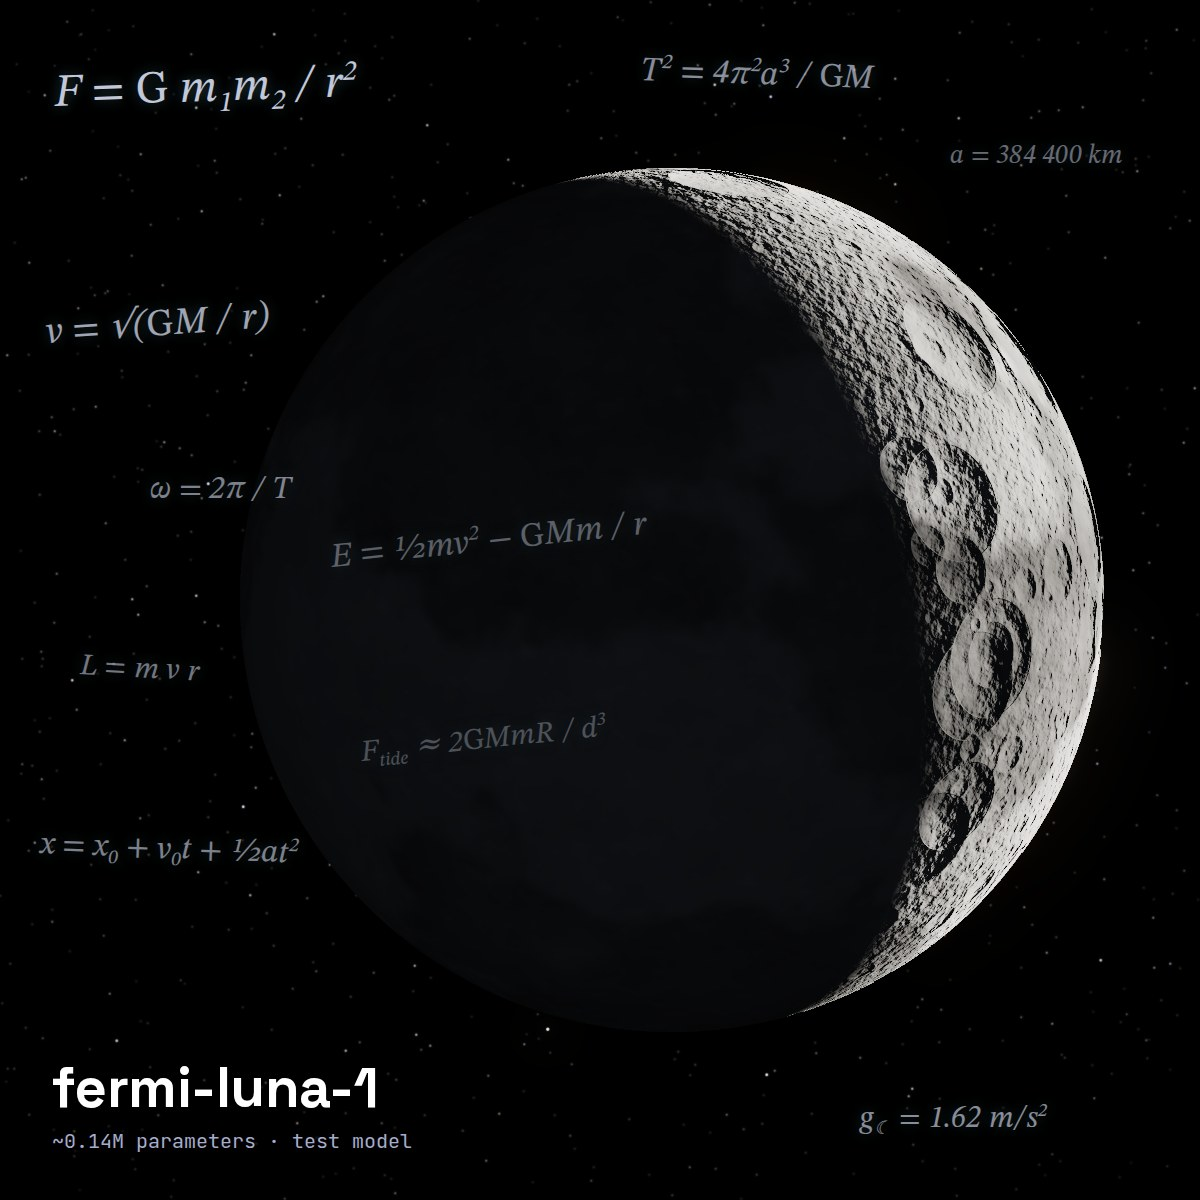
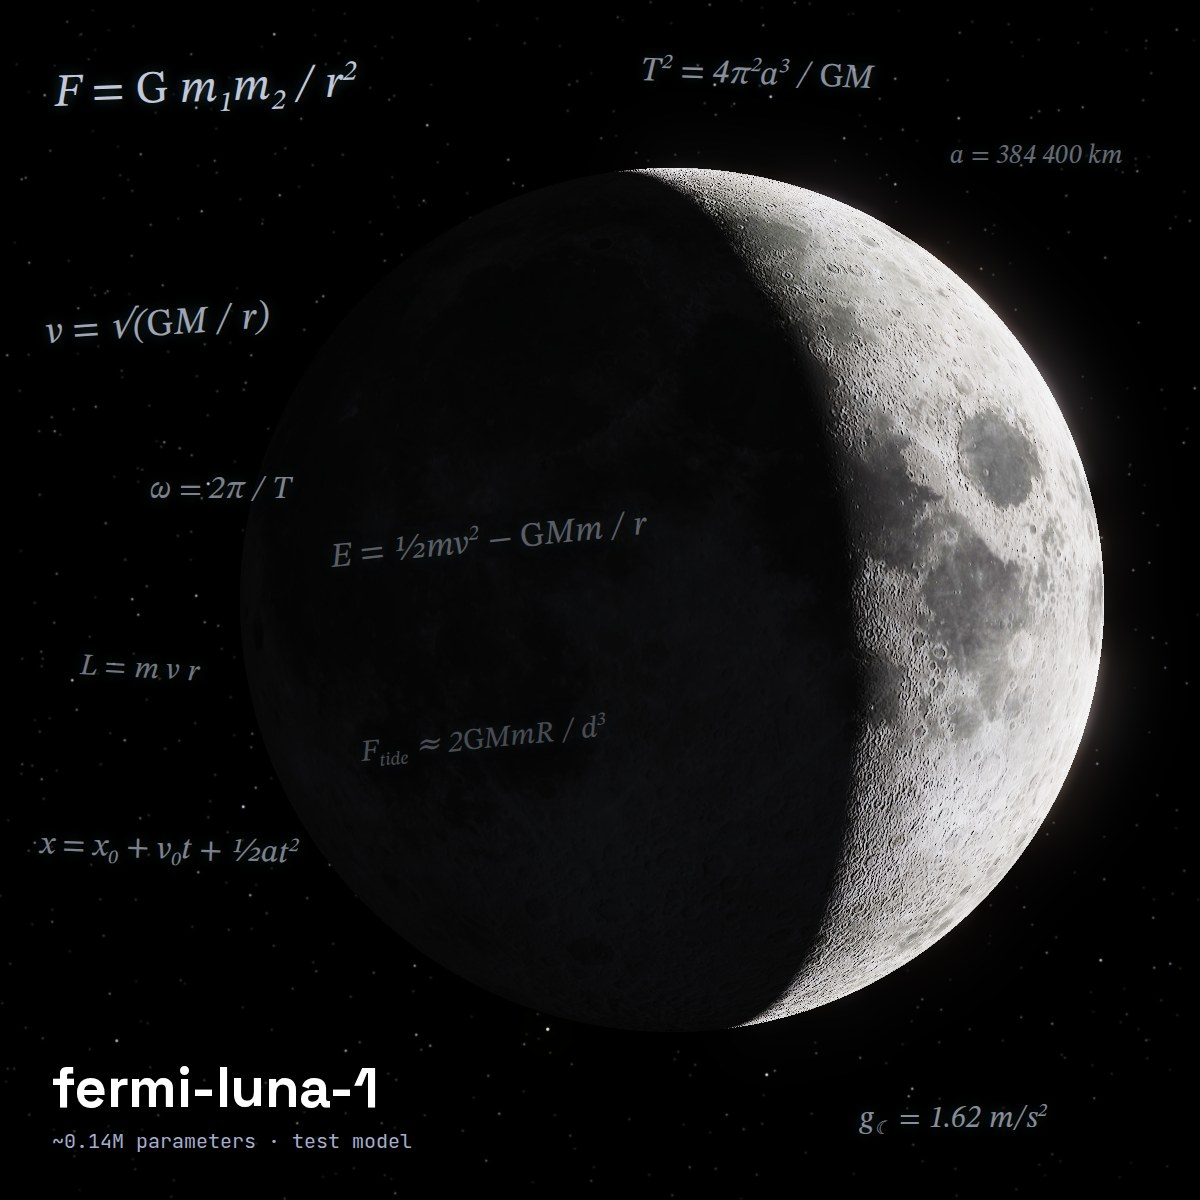
Render the Moon from real LRO data, and give the Earth real weather
The procedural craters looked fake. fermi-luna-1 now wraps a global lunar
map built from Lunar Reconnaissance Orbiter data (Solar System Scope,
CC BY 4.0) around the sphere, so the crescent shows the real Mare Crisium
and crater fields, with earthshine on the dark side. The Earth's clouds get
mid-latitude cyclones, wispy edges, and clear skies over the deserts.

Changed region(s): [[0.4933, 0.1233, 0.925, 0.8633]]

diff --git a/scripts/brand.py b/scripts/brand.py
@@ -4,16 +4,17 @@
     python scripts/brand.py luna banner     # some pieces: logo, banner, luna, tellus, solem, celeste
     python scripts/brand.py --reuse banner  # reuse body renders cached in build/brand
 
-The bodies are rendered with numpy, not drawn: the Moon is a cratered sphere
-lit with the Lommel-Seeliger law; the Earth wraps NASA's Blue Marble and NOAA
-relief around a sphere with procedural clouds, ocean glint, city lights, and
-an atmosphere; the Sun has limb darkening, granulation, sunspots, spicules,
+The bodies are rendered with numpy, not drawn: the Moon wraps a lunar map
+from LRO data around a sphere lit with the Lommel-Seeliger law, plus
+earthshine; the Earth wraps NASA's Blue Marble and NOAA relief around a
+sphere with procedural clouds and cyclones, ocean glint, city lights, and an
+atmosphere; the Sun has limb darkening, granulation, sunspots, spicules,
 and loop prominences; and the black hole is ray-traced through Schwarzschild
 geodesics with a Doppler-beamed accretion disk and relativistic jets.
 Headless Chromium then typesets the equations and labels on top.
 
 Needs numpy, Pillow, and Node with Playwright. The first run downloads Google
-Fonts and the Earth maps (basemap-data from PyPI) into build/brand.
+Fonts, the Earth maps (basemap-data from PyPI), and the Moon map into build/brand.
 """
 
 from __future__ import annotations
@@ -211,62 +212,71 @@ def starfield(h: int, w: int, count: int, seed: int) -> Array:
     return blur(img, 0.7 * w / 1200) * 3.5
 
 
+# A global lunar color map from Lunar Reconnaissance Orbiter data, by Solar
+# System Scope (CC BY 4.0), as hosted by the PyVista project.
+MOON_MAP = "https://raw.githubusercontent.com/pyvista/data/master/Data/solar_textures/moon.jpg"
[1 lines of base64/hex data omitted]
+
+
+def moon_map() -> Array:
+    """The lunar albedo map (equirectangular, linear RGB), downloaded once."""
+    import hashlib
+    import io
+
+    from PIL import Image
+
+    path = BUILD / "moon.jpg"
+    if not path.exists():
+        data = _fetch(MOON_MAP)
+        if hashlib.sha256(data).hexdigest() != MOON_MAP_SHA256:
+            raise SystemExit("moon map failed its checksum")
+        path.parent.mkdir(parents=True, exist_ok=True)
+        path.write_bytes(data)
+    image = Image.open(io.BytesIO(path.read_bytes())).convert("RGB")
+    return np.asarray(image, dtype=np.float64) ** 2.2 / 255**2.2
+
+
 def render_luna(n: int = ART) -> Array:
     ss = 2
     size = n * ss
     radius = 0.36 * size
     x, y, z, r = sphere(size, 0.56 * size, 0.5 * size, radius)
     inside = r < 1
-    normal = np.stack([x, y, z], axis=-1)
-    view = rotation(0.9, 0.25)
-    pin = normal[inside] @ view.T  # body coordinates of the visible pixels
+    nin = np.stack([x, y, z], axis=-1)[inside]
 
-    # Maria (dark basalt plains), highlands, and fine regolith texture.
-    maria = smoothstep(-0.1, 0.15, fbm(pin * 1.3, 6, seed=1))
-    albedo = 0.62 - 0.33 * maria + 0.1 * fbm(pin * 4, 5, seed=2) + 0.05 * fbm(pin * 22, 3, seed=3)
+    # The near side faces us (libration nudges it a little); north is up.
+    lat0, lon0 = np.radians(-4), np.radians(6)
+    center = np.array([np.cos(lat0) * np.sin(lon0), np.sin(lat0), np.cos(lat0) * np.cos(lon0)])
+    east = np.array([np.cos(lon0), 0.0, -np.sin(lon0)])
+    north = np.cross(center, east)
+    p = nin[:, :1] * east + nin[:, 1:2] * north + nin[:, 2:3] * center
+    lat = np.arcsin(np.clip(p[:, 1], -1, 1))
+    lon = np.arctan2(p[:, 0], p[:, 2])
+    albedo = sample(moon_map(), lat, lon)
 
-    # Craters: a power-law size distribution of bowls with raised rims.
-    rng = np.random.default_rng(7)
-    height = np.zeros(pin.shape[0])
-    for _ in range(1800):
-        c = normalize(rng.normal(size=3))
-        if (c @ view)[2] < -0.1:  # on the far side
-            continue
-        rad = min(0.006 * (1 - rng.random()) ** (-1 / 1.4), 0.14)
-        cosd = pin @ c
-        near = np.nonzero(cosd > np.cos(2.5 * rad))[0]
-        if near.size == 0:
-            continue
-        t = np.sqrt(np.clip(2 * (1 - cosd[near]), 0, None)) / rad
-        depth = 0.2 * rad
-        bowl = np.where(t < 1, depth * (t * t - 1), 0.0)
-        rim = 0.25 * depth * np.exp(-(((t - 1) / 0.22) ** 2))
-        ejecta = np.where(t > 1, 0.1 * depth * np.exp(-(t - 1) * 2.5), 0.0)
-        height[near] += bowl + rim + ejecta
-        if rng.random() < 0.1:  # young craters are brighter, with a halo
-            albedo[near] += 0.12 * np.exp(-((t / 1.8) ** 2))
-
-    height += 0.004 * fbm(pin * 40, 4, seed=4)
-    grid = np.zeros(z.shape)
-    grid[inside] = height
-    gy, gx = np.gradient(grid)
-    bump = 0.7 * radius
+    # Fine relief from the map's own shading, so the terminator isn't a clean edge.
+    lum = np.zeros(z.shape)
+    lum[inside] = albedo.mean(axis=1)
+    relief = lum - blur(lum[..., None], 3.0)[..., 0]
+    gy, gx = np.gradient(relief)
+    bump = 6.0
     lit_normal = normalize(np.stack([x - bump * gx, y + bump * gy, z], axis=-1))[inside]
 
-    # A crescent: the Sun is behind the Moon and off to the right.
-    light = normalize(np.array([0.9, 0.24, -0.62]))
+    # A waxing crescent: the Sun is behind the Moon and off to the right.
+    light = normalize(np.array([0.93, 0.12, -0.42]))
     mu0 = np.clip(lit_normal @ light, 0, None)
-    mu = np.clip(z[inside], 1e-3, None)
-    shade = 0.8 * 2 * mu0 / (mu0 + mu) + 0.2 * mu0
-    terminator = smoothstep(-0.03, 0.06, normal[inside] @ light)
-    lit = (albedo * shade * terminator)[:, None] * np.array([1.0, 0.96, 0.9]) * 0.95
-    earthshine = (0.012 * albedo * (0.4 + 0.6 * mu))[:, None] * np.array([0.6, 0.75, 1.0])
+    mu = np.clip(nin[:, 2], 1e-3, None)
+    lommel = 2 * mu0 / (mu0 + mu)  # the Moon's flat, limb-bright look
+    terminator = smoothstep(-0.02, 0.05, nin @ light)
+    lit = albedo * (lommel * terminator)[:, None] * 2.2
+    # Earthshine: the dark side lit faintly blue by the Earth, maria and all.
+    earthshine = albedo * (0.016 * (0.3 + 0.7 * mu))[:, None] * np.array([0.75, 0.85, 1.0])
 
     img = starfield(size, size, 900, seed=11) * (~inside)[..., None]
     img[inside] = lit + earthshine
     img = downsample(img, ss)
-    img = bloom(img, 0.8, 0.25, (6, 24))
-    return tonemap(img, 1.1)
+    img = bloom(img, 0.85, 0.2, (6, 24))
+    return tonemap(img, 1.0)
 
 
 # NASA's Blue Marble Next Generation and NOAA's ETOPO1 relief (both public
@@ -355,15 +365,28 @@ def render_tellus(n: int = ART) -> Array:
     grid = np.zeros(z.shape)
     grid[inside] = relief * land
     gy, gx = np.gradient(grid)
-    bump = 9.0
+    bump = 4.5
     lit_normal = normalize(np.stack([x - bump * gx, y + bump * gy, z], axis=-1))[inside]
 
-    # Clouds: fractal, lightly swirled, denser away from the subtropical deserts.
-    cwarp = np.stack([fbm(p * 2.5 + s, 4, seed=20 + s) for s in (0, 1, 2)], axis=-1)
-    cq = p + 0.25 * cwarp
-    cloud = fbm(cq * np.array([4.0, 6.0, 4.0]), 8, seed=23, gain=0.55)
-    belt = 0.12 * np.cos(lat * 6) ** 2 - 0.1 * np.exp(-(((np.abs(lat) - 0.42) / 0.12) ** 2))
-    cover = smoothstep(0.18, 0.6, cloud + belt) * 0.8
+    # Clouds: mid-latitude cyclones spiral the field (a twist that fades with
+    # distance from each storm's eye), wisps break up the edges, and the
+    # subtropical deserts stay clear, as they do from orbit.
+    cq = p.copy()
+    storms = ((50, -30, 0.38, 1.6), (62, 12, 0.3, 1.2), (40, 40, 0.25, 0.9))
+    for storm_lat, storm_lon, size_, twist in storms:
+        la, lo = np.radians(storm_lat), np.radians(storm_lon)
+        axis = np.array([np.cos(la) * np.sin(lo), np.sin(la), np.cos(la) * np.cos(lo)])
+        angle = twist * np.exp(-(np.sum((cq - axis) ** 2, axis=1) / size_**2))
+        cos_a, sin_a = np.cos(angle)[:, None], np.sin(angle)[:, None]
+        cq = cq * cos_a + np.cross(axis, cq) * sin_a + axis * (cq @ axis)[:, None] * (1 - cos_a)
+    cwarp = np.stack([fbm(cq * 2.5 + s, 4, seed=20 + s) for s in (0, 1, 2)], axis=-1)
+    cq = cq + 0.3 * cwarp
+    cloud = fbm(cq * np.array([3.5, 5.5, 3.5]), 9, seed=23, gain=0.56)
+    wisps = 1 - np.abs(noise(cq * np.array([14.0, 28.0, 14.0]), seed=24))
+    belt = 0.12 * np.cos(lat * 6) ** 2 - 0.12 * np.exp(-(((np.abs(lat) - 0.42) / 0.12) ** 2))
+    desert = land * smoothstep(0.12, 0.3, surface[:, 0]) * (1 - green)
+    density = cloud + belt + 0.12 * (wisps - 0.6) - 0.3 * desert
+    cover = smoothstep(0.02, 0.6, density) ** 1.5 * 0.75
 
     light = normalize(np.array([-0.85, 0.42, 0.32]))
     ndl = nin @ light
@@ -375,7 +398,8 @@ def render_tellus(n: int = ART) -> Array:
     glint = (spec * ocean * (1 - cover))[:, None] * np.array([1, 0.9, 0.72])
 
     lit = (surface * relief_light + glint) * day
-    clouds = cover[:, None] * np.array([0.9, 0.92, 0.96]) * day
+    thick = smoothstep(0.2, 0.8, cover)[:, None]  # thin cloud reads grey, thick cloud white
+    clouds = cover[:, None] * (0.7 + 0.25 * thick) * np.array([0.95, 0.96, 1.0]) * day
     shaded = lit * (1 - cover[:, None]) + clouds
 
     # Night side: city lights scattered over inhabited (green) land.

diff --git a/README.md b/README.md
@@ -48,9 +48,11 @@ machine, and call no external APIs:
 
 The artwork is rendered, not drawn: `make brand` runs
 [`scripts/brand.py`](scripts/brand.py), which ray-traces the black hole
-through Schwarzschild geodesics and shades the Moon, Earth, and Sun with
+through Schwarzschild geodesics and lights the Moon, Earth, and Sun with
 numpy. Earth imagery: NASA Blue Marble Next Generation and NOAA ETOPO1
-(public domain). More in [`docs/MODELS.md`](docs/MODELS.md).
+(public domain). Moon map: [Solar System Scope](https://www.solarsystemscope.com/textures/),
+from NASA LRO data ([CC BY 4.0](https://creativecommons.org/licenses/by/4.0/)).
+More in [`docs/MODELS.md`](docs/MODELS.md).
 
 ## Screenshots
 

diff --git a/CHANGELOG.md b/CHANGELOG.md
@@ -22,7 +22,7 @@ uses [Semantic Versioning](https://semver.org/spec/v2.0.0.html).
 - Plan for Ask Physics API keys on the future hosted API (PLAN.md, Q18).
 - An Ask Physics logo, a README banner, and artwork for each Fermi model,
   rendered by `make brand`: a ray-traced black hole quasar, a cratered
-  crescent Moon, the Earth from NASA's Blue Marble, and the Sun.
+  crescent Moon from LRO data, the Earth from NASA's Blue Marble, and the Sun.
 
 ### Fixed
 
